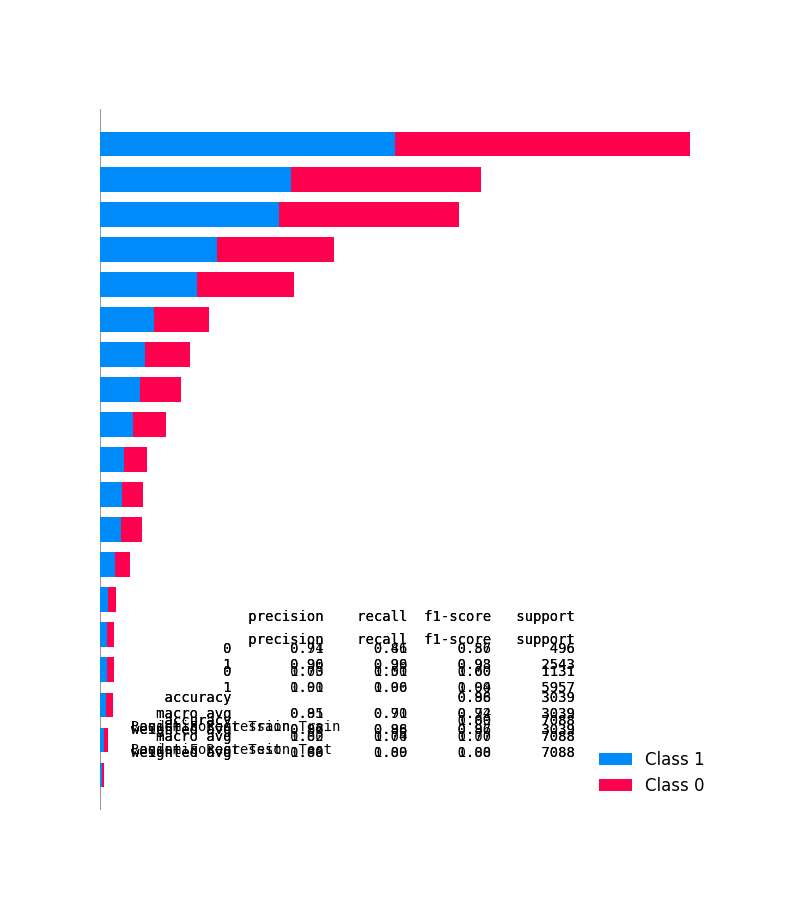
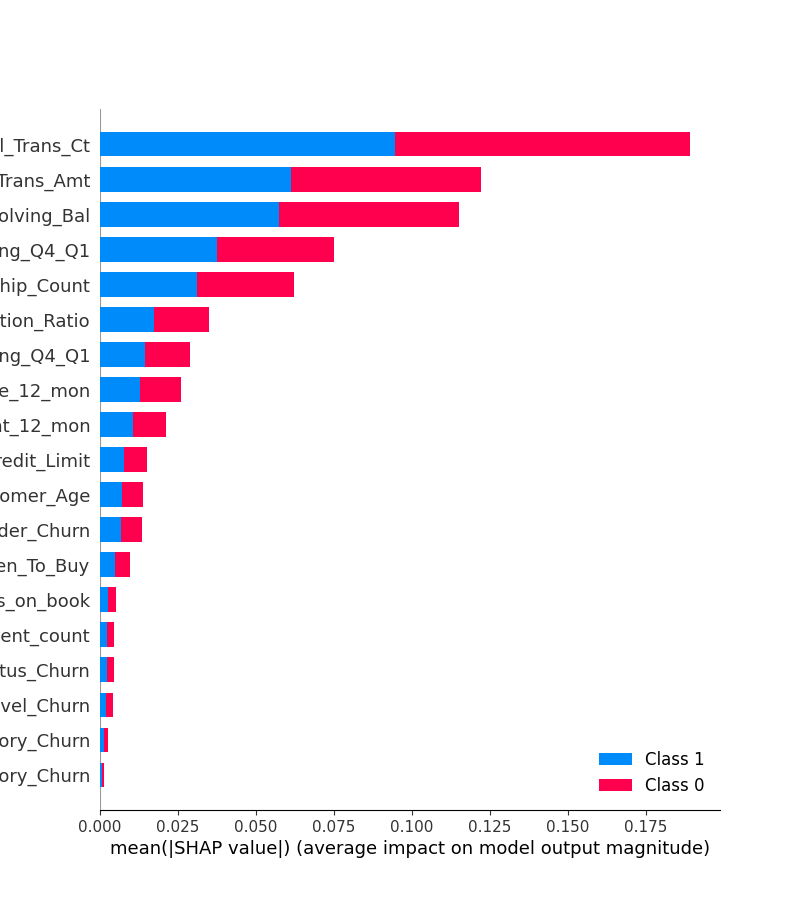
Fix images

diff --git a/project_1_churn_simple/churn_library.py b/project_1_churn_simple/churn_library.py
@@ -1,5 +1,8 @@
-'''This module contains functions for performing EDA and feature engineering on the churn data.'''
+'''This module contains functions for performing EDA and feature engineering on the churn data.
 
+Author: Adam Arnon
+Created: 03/22/2023
+'''
 
 # import libraries
 import logging
@@ -325,6 +328,11 @@ def classification_report_image(
     '''
     style_dict = {'fontdict': {'fontsize': 10}, 'fontproperties': 'monospace'}
     x_style = 0.01
+    y_train_title_height = 1.0
+    y_train_table_height = 0.7
+
+    y_test_title_height = 0.5
+    y_test_table_height = 0.2
     rf_train_results = classification_report(
         y_train, predictions_data.y_train_preds_rf)
     rf_test_results = classification_report(
@@ -337,40 +345,42 @@ def classification_report_image(
 
     churn_library_logger.info('calculating scores')
 
-    plt.rc('figure', figsize=(5, 5))
+    plt.rc('figure', figsize=(8, 8))
     # plt.text(0.01, 0.05, str(model.summary()), {'fontsize': 12}) old approach
     churn_library_logger.info('random forest results')
     churn_library_logger.info('train results')
     churn_library_logger.info(rf_train_results)
-    plt.text(x_style, 1.25, str('Random Forest Train'), **style_dict)
+    plt.text(x_style, y_train_title_height, str('Random Forest Train'), **style_dict)
     # approach improved by OP -> monospace!
-    plt.text(x_style, 0.05, str(rf_train_results), **style_dict)
+    plt.text(x_style, y_train_table_height, str(rf_train_results), **style_dict)
 
     churn_library_logger.info('test results')
     churn_library_logger.info(rf_test_results)
-    plt.text(x_style, 0.6, str('Random Forest Test'), **style_dict)
+    plt.text(x_style, y_test_title_height, str('Random Forest Test'), **style_dict)
     # approach improved by OP -> monospace!
-    plt.text(x_style, 0.7, str(rf_test_results), **style_dict)
+    plt.text(x_style, y_test_table_height, str(rf_test_results), **style_dict)
     plt.axis('off')
     plt.savefig(os.path.join(results_dir, 'rfc_classification_report.png'))
     plt.show()
+    plt.close()
 
-    plt.rc('figure', figsize=(5, 5))
+    plt.rc('figure', figsize=(8, 8))
     churn_library_logger.info('logistic regression results')
     churn_library_logger.info('train results')
     churn_library_logger.info(lr_train_results)
-    plt.text(x_style, 1.25, str('Logistic Regression Train'), **style_dict)
+    plt.text(x_style, y_train_title_height, str('Logistic Regression Train'), **style_dict)
     # approach improved by OP -> monospace!
-    plt.text(x_style, 0.05, str(lr_train_results), **style_dict)
+    plt.text(x_style, y_train_table_height, str(lr_train_results), **style_dict)
 
     churn_library_logger.info('test results')
     churn_library_logger.info(lr_test_results)
-    plt.text(x_style, 0.6, str('Logistic Regression Test'), **style_dict)
+    plt.text(x_style, y_test_title_height, str('Logistic Regression Test'), **style_dict)
     # approach improved by OP -> monospace!
-    plt.text(x_style, 0.7, str(lr_test_results), **style_dict)
+    plt.text(x_style, y_test_table_height, str(lr_test_results), **style_dict)
     plt.axis('off')
     plt.savefig(os.path.join(results_dir, 'lrc_classification_report.png'))
     plt.show()
+    plt.close()
 
 
 def feature_importance_plot(model: RandomForestClassifier,
@@ -387,6 +397,7 @@ def feature_importance_plot(model: RandomForestClassifier,
     '''
     explainer = shap.TreeExplainer(model)
     shap_values = explainer.shap_values(X_test)
+    plt.figure(figsize=(20, 10))
     shap.summary_plot(shap_values, X_test, plot_type="bar", show=False)
     plt.savefig(os.path.join(results_dir, 'shap_feature_importance.png'))
     plt.show()
@@ -400,7 +411,7 @@ def feature_importance_plot(model: RandomForestClassifier,
     names = [X_test.columns[i] for i in indices]
 
     # Create plot
-    plt.figure(figsize=(20, 5))
+    plt.figure(figsize=(20, 10))
 
     # Create plot title
     plt.title("Feature Importance")
@@ -438,7 +449,7 @@ def train_rfc_lrc(
     # Use a different solver if the default 'lbfgs' fails to converge
     # Reference:
     # https://scikit-learn.org/stable/modules/linear_model.html#logistic-regression
-    lrc = LogisticRegression(solver='lbfgs', max_iter=max_iter)
+    lrc = LogisticRegression(solver='lbfgs', max_iter=max_iter, random_state=42)
     param_grid = {
         'n_estimators': [200, 500],
         'max_features': ['auto', 'sqrt'],

diff --git a/project_1_churn_simple/churn_script_logging_and_tests.py b/project_1_churn_simple/churn_script_logging_and_tests.py
@@ -1,4 +1,8 @@
-'''This script is used to train and evaluate a model to predict customer churn.'''
+'''This script is used to train and evaluate a model to predict customer churn.
+
+Author: Adam Arnon
+Created: 03/22/2023
+'''
 import logging
 import os
 import tempfile
